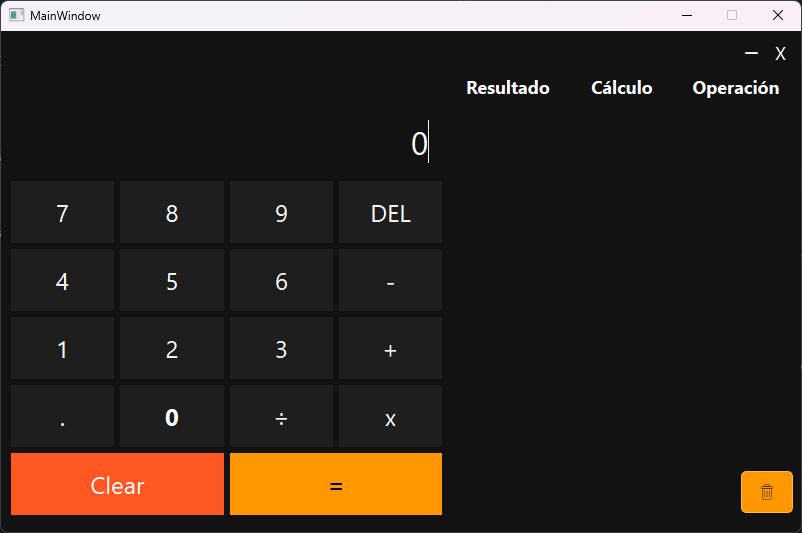
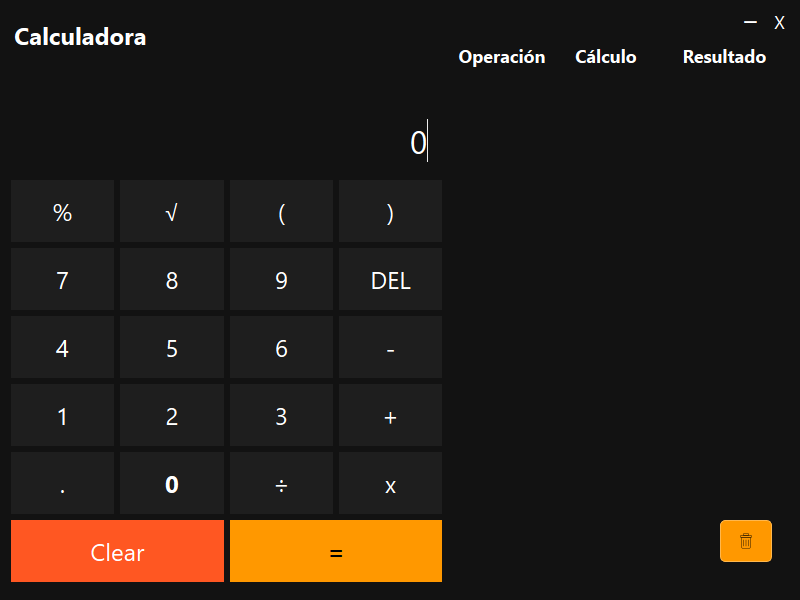
Copia de seguridad

diff --git a/calculadora_ui.py b/calculadora_ui.py
@@ -15,9 +15,9 @@ from PySide6.QtGui import (QBrush, QColor, QConicalGradient, QCursor,
     QFont, QFontDatabase, QGradient, QIcon,
     QImage, QKeySequence, QLinearGradient, QPainter,
     QPalette, QPixmap, QRadialGradient, QTransform)
-from PySide6.QtWidgets import (QApplication, QGridLayout, QHeaderView, QLabel,
-    QLineEdit, QMainWindow, QPushButton, QSizePolicy,
-    QTableWidget, QTableWidgetItem, QWidget)
+from PySide6.QtWidgets import (QAbstractItemView, QApplication, QGridLayout, QHeaderView,
+    QLabel, QLineEdit, QMainWindow, QPushButton,
+    QSizePolicy, QTableWidget, QTableWidgetItem, QWidget)
 
 class Ui_MainWindow(object):
     def setupUi(self, MainWindow):
@@ -71,7 +71,7 @@ class Ui_MainWindow(object):
         self.table_history.setFont(font1)
         self.table_history.viewport().setProperty(u"cursor", QCursor(Qt.CursorShape.CrossCursor))
         self.table_history.setFocusPolicy(Qt.FocusPolicy.NoFocus)
-        self.table_history.setLayoutDirection(Qt.LayoutDirection.RightToLeft)
+        self.table_history.setLayoutDirection(Qt.LayoutDirection.LeftToRight)
         self.table_history.setStyleSheet(u"QTableWidget {\n"
 "    background-color: #121212;\n"
 "    color: white;\n"
@@ -95,15 +95,27 @@ class Ui_MainWindow(object):
 "    border: none;\n"
 "}\n"
 "\n"
+"QTableWidget::item:selected {\n"
+"    background-color: #FFB74D;\n"
+"    color: black; \n"
+"}\n"
+"\n"
+"\n"
 "")
         self.table_history.setHorizontalScrollBarPolicy(Qt.ScrollBarPolicy.ScrollBarAlwaysOff)
         self.table_history.setAutoScroll(False)
+        self.table_history.setEditTriggers(QAbstractItemView.EditTrigger.NoEditTriggers)
+        self.table_history.setTabKeyNavigation(False)
+        self.table_history.setProperty(u"showDropIndicator", False)
+        self.table_history.setDragDropOverwriteMode(False)
+        self.table_history.setShowGrid(True)
         self.table_history.setGridStyle(Qt.PenStyle.SolidLine)
         self.table_history.setWordWrap(True)
         self.table_history.setRowCount(0)
         self.table_history.setColumnCount(3)
         self.table_history.horizontalHeader().setVisible(True)
-        self.table_history.horizontalHeader().setDefaultSectionSize(114)
+        self.table_history.horizontalHeader().setMinimumSectionSize(104)
+        self.table_history.horizontalHeader().setDefaultSectionSize(104)
         self.table_history.horizontalHeader().setStretchLastSection(True)
         self.table_history.verticalHeader().setVisible(False)
         self.table_history.verticalHeader().setCascadingSectionResizes(True)
@@ -199,13 +211,13 @@ class Ui_MainWindow(object):
 "}\n"
 "")
         self.label_titulo.setAlignment(Qt.AlignmentFlag.AlignCenter)
-        self.widget = QWidget(self.centralwidget)
-        self.widget.setObjectName(u"widget")
-        self.widget.setGeometry(QRect(11, 180, 431, 404))
-        self.gridLayout = QGridLayout(self.widget)
+        self.layoutWidget = QWidget(self.centralwidget)
+        self.layoutWidget.setObjectName(u"layoutWidget")
+        self.layoutWidget.setGeometry(QRect(11, 180, 431, 404))
+        self.gridLayout = QGridLayout(self.layoutWidget)
         self.gridLayout.setObjectName(u"gridLayout")
         self.gridLayout.setContentsMargins(0, 0, 0, 0)
-        self.btn_porcentaje = QPushButton(self.widget)
+        self.btn_porcentaje = QPushButton(self.layoutWidget)
         self.btn_porcentaje.setObjectName(u"btn_porcentaje")
         self.btn_porcentaje.setStyleSheet(u"QPushButton {\n"
 "    background-color: #1E1E1E;\n"
@@ -222,7 +234,7 @@ class Ui_MainWindow(object):
 
         self.gridLayout.addWidget(self.btn_porcentaje, 0, 0, 1, 1)
 
-        self.btn_raiz = QPushButton(self.widget)
+        self.btn_raiz = QPushButton(self.layoutWidget)
         self.btn_raiz.setObjectName(u"btn_raiz")
         self.btn_raiz.setStyleSheet(u"QPushButton {\n"
 "    background-color: #1E1E1E;\n"
@@ -239,7 +251,7 @@ class Ui_MainWindow(object):
 
         self.gridLayout.addWidget(self.btn_raiz, 0, 1, 1, 1)
 
-        self.btn_parentesis_izq = QPushButton(self.widget)
+        self.btn_parentesis_izq = QPushButton(self.layoutWidget)
         self.btn_parentesis_izq.setObjectName(u"btn_parentesis_izq")
         self.btn_parentesis_izq.setStyleSheet(u"QPushButton {\n"
 "    background-color: #1E1E1E;\n"
@@ -256,7 +268,7 @@ class Ui_MainWindow(object):
 
         self.gridLayout.addWidget(self.btn_parentesis_izq, 0, 2, 1, 1)
 
-        self.btn_parentesis_der = QPushButton(self.widget)
+        self.btn_parentesis_der = QPushButton(self.layoutWidget)
         self.btn_parentesis_der.setObjectName(u"btn_parentesis_der")
         self.btn_parentesis_der.setStyleSheet(u"QPushButton {\n"
 "    background-color: #1E1E1E;\n"
@@ -273,7 +285,7 @@ class Ui_MainWindow(object):
 
         self.gridLayout.addWidget(self.btn_parentesis_der, 0, 3, 1, 1)
 
-        self.btn_7 = QPushButton(self.widget)
+        self.btn_7 = QPushButton(self.layoutWidget)
         self.btn_7.setObjectName(u"btn_7")
         self.btn_7.setStyleSheet(u"QPushButton {\n"
 "    background-color: #1E1E1E;\n"
@@ -310,7 +322,7 @@ class Ui_MainWindow(object):
 
         self.gridLayout.addWidget(self.btn_7, 1, 0, 1, 1)
 
-        self.btn_8 = QPushButton(self.widget)
+        self.btn_8 = QPushButton(self.layoutWidget)
         self.btn_8.setObjectName(u"btn_8")
         self.btn_8.setStyleSheet(u"QPushButton {\n"
 "    background-color: #1E1E1E;\n"
@@ -347,7 +359,7 @@ class Ui_MainWindow(object):
 
         self.gridLayout.addWidget(self.btn_8, 1, 1, 1, 1)
 
-        self.btn_9 = QPushButton(self.widget)
+        self.btn_9 = QPushButton(self.layoutWidget)
         self.btn_9.setObjectName(u"btn_9")
         self.btn_9.setStyleSheet(u"QPushButton {\n"
 "    background-color: #1E1E1E;\n"
@@ -384,7 +396,7 @@ class Ui_MainWindow(object):
 
         self.gridLayout.addWidget(self.btn_9, 1, 2, 1, 1)
 
-        self.btn_borrar_ultimo_numero = QPushButton(self.widget)
+        self.btn_borrar_ultimo_numero = QPushButton(self.layoutWidget)
         self.btn_borrar_ultimo_numero.setObjectName(u"btn_borrar_ultimo_numero")
         self.btn_borrar_ultimo_numero.setStyleSheet(u"QPushButton {\n"
 "    background-color: #1E1E1E;\n"
@@ -421,7 +433,7 @@ class Ui_MainWindow(object):
 
         self.gridLayout.addWidget(self.btn_borrar_ultimo_numero, 1, 3, 1, 1)
 
-        self.btn_4 = QPushButton(self.widget)
+        self.btn_4 = QPushButton(self.layoutWidget)
         self.btn_4.setObjectName(u"btn_4")
         self.btn_4.setStyleSheet(u"QPushButton {\n"
 "    background-color: #1E1E1E;\n"
@@ -458,7 +470,7 @@ class Ui_MainWindow(object):
 
         self.gridLayout.addWidget(self.btn_4, 2, 0, 1, 1)
 
-        self.btn_5 = QPushButton(self.widget)
+        self.btn_5 = QPushButton(self.layoutWidget)
         self.btn_5.setObjectName(u"btn_5")
         self.btn_5.setStyleSheet(u"QPushButton {\n"
 "    background-color: #1E1E1E;\n"
@@ -495,7 +507,7 @@ class Ui_MainWindow(object):
 
         self.gridLayout.addWidget(self.btn_5, 2, 1, 1, 1)
 
-        self.btn_6 = QPushButton(self.widget)
+        self.btn_6 = QPushButton(self.layoutWidget)
         self.btn_6.setObjectName(u"btn_6")
         self.btn_6.setStyleSheet(u"QPushButton {\n"
 "    background-color: #1E1E1E;\n"
@@ -528,7 +540,7 @@ class Ui_MainWindow(object):
 
         self.gridLayout.addWidget(self.btn_6, 2, 2, 1, 1)
 
-        self.btn_resta = QPushButton(self.widget)
+        self.btn_resta = QPushButton(self.layoutWidget)
         self.btn_resta.setObjectName(u"btn_resta")
         self.btn_resta.setStyleSheet(u"QPushButton {\n"
 "    background-color: #1E1E1E;\n"
@@ -565,7 +577,7 @@ class Ui_MainWindow(object):
 
         self.gridLayout.addWidget(self.btn_resta, 2, 3, 1, 1)
 
-        self.btn_1 = QPushButton(self.widget)
+        self.btn_1 = QPushButton(self.layoutWidget)
         self.btn_1.setObjectName(u"btn_1")
         self.btn_1.setStyleSheet(u"QPushButton {\n"
 "    background-color: #1E1E1E;\n"
@@ -602,7 +614,7 @@ class Ui_MainWindow(object):
 
         self.gridLayout.addWidget(self.btn_1, 3, 0, 1, 1)
 
-        self.btn_2 = QPushButton(self.widget)
+        self.btn_2 = QPushButton(self.layoutWidget)
         self.btn_2.setObjectName(u"btn_2")
         self.btn_2.setStyleSheet(u"QPushButton {\n"
 "    background-color: #1E1E1E;\n"
@@ -639,7 +651,7 @@ class Ui_MainWindow(object):
 
         self.gridLayout.addWidget(self.btn_2, 3, 1, 1, 1)
 
-        self.btn_3 = QPushButton(self.widget)
+        self.btn_3 = QPushButton(self.layoutWidget)
         self.btn_3.setObjectName(u"btn_3")
         self.btn_3.setStyleSheet(u"QPushButton {\n"
 "    background-color: #1E1E1E;\n"
@@ -676,7 +688,7 @@ class Ui_MainWindow(object):
 
         self.gridLayout.addWidget(self.btn_3, 3, 2, 1, 1)
 
-        self.btn_suma = QPushButton(self.widget)
+        self.btn_suma = QPushButton(self.layoutWidget)
         self.btn_suma.setObjectName(u"btn_suma")
         self.btn_suma.setStyleSheet(u"QPushButton {\n"
 "    background-color: #1E1E1E;\n"
@@ -713,7 +725,7 @@ class Ui_MainWindow(object):
 
         self.gridLayout.addWidget(self.btn_suma, 3, 3, 1, 1)
 
-        self.btn_coma = QPushButton(self.widget)
+        self.btn_coma = QPushButton(self.layoutWidget)
         self.btn_coma.setObjectName(u"btn_coma")
         self.btn_coma.setStyleSheet(u"QPushButton {\n"
 "    background-color: #1E1E1E;\n"
@@ -750,7 +762,7 @@ class Ui_MainWindow(object):
 
         self.gridLayout.addWidget(self.btn_coma, 4, 0, 1, 1)
 
-        self.btn_0 = QPushButton(self.widget)
+        self.btn_0 = QPushButton(self.layoutWidget)
         self.btn_0.setObjectName(u"btn_0")
         self.btn_0.setFont(font4)
         self.btn_0.setStyleSheet(u"QPushButton {\n"
@@ -788,7 +800,7 @@ class Ui_MainWindow(object):
 
         self.gridLayout.addWidget(self.btn_0, 4, 1, 1, 1)
 
-        self.btn_dividir = QPushButton(self.widget)
+        self.btn_dividir = QPushButton(self.layoutWidget)
         self.btn_dividir.setObjectName(u"btn_dividir")
         self.btn_dividir.setStyleSheet(u"QPushButton {\n"
 "    background-color: #1E1E1E;\n"
@@ -825,7 +837,7 @@ class Ui_MainWindow(object):
 
         self.gridLayout.addWidget(self.btn_dividir, 4, 2, 1, 1)
 
-        self.btn_multiplicacion = QPushButton(self.widget)
+        self.btn_multiplicacion = QPushButton(self.layoutWidget)
         self.btn_multiplicacion.setObjectName(u"btn_multiplicacion")
         self.btn_multiplicacion.setStyleSheet(u"QPushButton {\n"
 "    background-color: #1E1E1E;\n"
@@ -862,7 +874,7 @@ class Ui_MainWindow(object):
 
         self.gridLayout.addWidget(self.btn_multiplicacion, 4, 3, 1, 1)
 
-        self.btn_igual = QPushButton(self.widget)
+        self.btn_igual = QPushButton(self.layoutWidget)
         self.btn_igual.setObjectName(u"btn_igual")
         self.btn_igual.setStyleSheet(u"QPushButton {\n"
 "    background-color: #1E1E1E;\n"
@@ -899,7 +911,7 @@ class Ui_MainWindow(object):
 
         self.gridLayout.addWidget(self.btn_igual, 5, 2, 1, 2)
 
-        self.btn_clear = QPushButton(self.widget)
+        self.btn_clear = QPushButton(self.layoutWidget)
         self.btn_clear.setObjectName(u"btn_clear")
         self.btn_clear.setStyleSheet(u"QPushButton {\n"
 "    background-color: #1E1E1E;\n"

diff --git a/main.py b/main.py
@@ -2,15 +2,27 @@ import sys
 from PyQt6 import uic
 from PyQt6.QtWidgets import *
 from PyQt6.QtCore import Qt 
-from PyQt6.QtGui import QFont
+from PyQt6.QtGui import QIcon
+from PyQt6.QtCore import QTimer
+
 
 class pantalla(QMainWindow):
     def __init__(self):
         super(pantalla, self).__init__()
         uic.loadUi("calculadora.ui", self)
 
+        #! Icono de la aplicacion
+        self.setWindowIcon(QIcon("icons\IconoPPal\ios\AppIcon~ios-marketing.png"))
+
+        #!nombre de la applicacion en ventana "Que no se vera debido a que no hay barra de titulo"
+        self.setWindowTitle("Calculadora")
+
         self.id_operacion = 1  # Contador para el historial
         self.display.setText("0")  # Inicializar el display en 0
+
+        # Establecer el límite de longitud del display
+        self.display.setMaxLength(23)  # Limitar a 23 caracteres
+
 
         #Variables para mover la ventana con el ratón 
         # Esto permite quitar la barra de título
@@ -49,6 +61,9 @@ class pantalla(QMainWindow):
 
     def add_to_display(self, text):
         current = self.display.text()
+        if text == "-" and current == "0":
+            self.display.setText("-")
+
         if current == "0":
             self.display.setText(text)
         else:   
@@ -70,24 +85,43 @@ class pantalla(QMainWindow):
     def calculate(self):
         try:
             operation = self.display.text() # Operacion original.
-            operation_registo = operation
-            operation = self.display.text().replace("√", "**(1/2)")
-            operation = self.display.text().replace("%", "/100")
+            if "√" in operation:
+                operation = operation.replace("√", "**(1/2)")
+            if "%" in operation:
+                operation = operation.replace("%", "/100")
+            #operation = self.display.text().replace("√", "**(1/2)")
+            #operation = self.display.text().replace("%", "/100")
             result = eval(operation)
             self.display.setText(str(result))
-            self.add_to_history(operation_registo, result)
+            self.add_to_history(operation, result)
         except Exception as e:
-            self.show_error("Operación inválida")
-            self.clear_display()
+            self.show_error("Operación no valida")
+            self.display.setText("Syntax Error")
+            #self.clear_display()
+            #! Esto sirve paraestablecer el display con un mensaje de error lo reinicia al segundo limpiando la pantalla.
+            QTimer.singleShot(1000, self.clear_display)
+        except ZeroDivisionError:
+            self.show_error("No se puede dividir por 0")
+            self.display.setText("Math Error")
+            #! Esto sirve paraestablecer el display con un mensaje de error lo reinicia al segundo limpiando la pantalla.
+            QTimer.singleShot(1000, self.clear_display)
+        except ValueError:
+            self.show_error("Operación no valida")
+            self.display.setText("Syntax Error")
+            #! Esto sirve paraestablecer el display con un mensaje de error lo reinicia al segundo limpiando la pantalla.
+            QTimer.singleShot(1000, self.clear_display)
+
 
     def add_to_history(self, operation, result):
         row_position = self.table_history.rowCount()
         self.table_history.insertRow(row_position)
         self.table_history.setItem(row_position, 0, QTableWidgetItem(str(self.id_operacion)))
         self.table_history.setItem(row_position, 1, QTableWidgetItem(operation))
-        self.table_history.setItem(row_position, 2, QTableWidgetItem(str(result)))
-           
-       
+        #! Formatear el resultado a dos decimales
+        # todo: Formatear el resultado a dos decimales Terminar o ver si hay que quitarlo.
+        formatted_result = "{:.2f}".format(result).rjust(8)
+        self.table_history.setItem(row_position, 2, QTableWidgetItem(str(formatted_result)))
+               
         self.id_operacion += 1
 
     def clear_history(self):

diff --git a/Readme.md b/Readme.md
@@ -17,7 +17,7 @@ Este proyecto es una calculadora gráfica desarrollada con PyQt6. La calculadora
 
 ## Uso
 
-1. Ejecuta el archivo [main.py](http://_vscodecontentref_/1) para iniciar la calculadora:
+1. Ejecuta el archivo [main.py](main.py) para iniciar la calculadora:
     ```bash
     python main.py
     ```
@@ -25,13 +25,13 @@ Este proyecto es una calculadora gráfica desarrollada con PyQt6. La calculadora
 
 ## Estructura del Proyecto
 
-- [main.py](http://_vscodecontentref_/2): Contiene la lógica principal de la calculadora.
-- [calculadora.ui](http://_vscodecontentref_/3): Archivo de diseño de la interfaz gráfica creado con Qt Designer.
+- [main.py](main.py): Contiene la lógica principal de la calculadora.
+- [calculadora.ui](calculadora.ui): Archivo de diseño de la interfaz gráfica creado con Qt Designer.
 
 ## Funcionalidades
 
 - **Botones Numéricos**: Permiten ingresar números del 0 al 9.
-- **Operadores**: Suma, resta, multiplicación y división.
+- **Operadores**: Suma, resta, multiplicación, división, porcentaje y raíz cuadrada.
 - **Botón de Igual**: Calcula el resultado de la operación ingresada.
 - **Botón de Borrar Último Número**: Elimina el último carácter ingresado.
 - **Botón de Limpiar**: Limpia toda la pantalla de la calculadora.
@@ -39,8 +39,12 @@ Este proyecto es una calculadora gráfica desarrollada con PyQt6. La calculadora
 - **Historial**: Muestra un historial de las operaciones realizadas.
 - **Botón de Cerrar**: Cierra la aplicación.
 - **Botón de Minimizar**: Minimiza la ventana de la aplicación.
+- **Movimiento de Ventana**: Permite mover la ventana arrastrándola con el ratón.
 
-## Capturas de Pantalla
+## Capturas
 
 ![Captura de Pantalla](/resources/capture.png)
 
+### Demostración
+
+![Demostración de la Calculadora](https://example.com/demo.gif)
